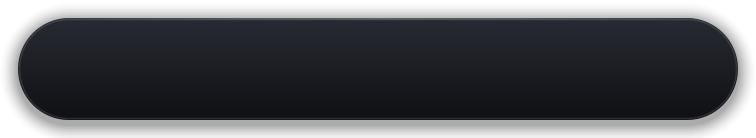
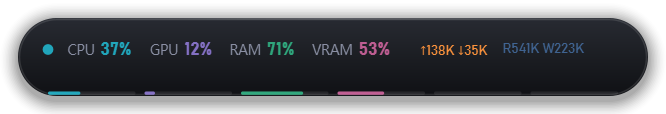
竖向胶囊磁盘行去掉竖条；横版网速与磁盘贴紧指标、胶囊收窄到 420；提交内存卡加分盘页面文件分布条

diff --git a/ui/island.py b/ui/island.py
@@ -113,7 +113,7 @@ RATE_FOCUS = {"net_up", "net_down", "disk_r", "disk_w"}
 class IslandWindow(QWidget):
     INSET = 12
     SNAP_DIST = 48          # 胶囊本体离屏幕任一边小于这个距离，松手就吸附上去
-    COLLAPSED_W = 480
+    COLLAPSED_W = 420        # 右端速率贴紧指标后按实测最宽内容定的宽，整体更紧凑
     COLLAPSED_H_IDLE = 52
     COLLAPSED_H_PLAY = 68
     SIDE_W = 62             # 贴左右两侧时的竖向胶囊（本体尺寸，不含 INSET）
@@ -1987,20 +1987,22 @@ class IslandWindow(QWidget):
                        f"↓{self._brief_rate(d.get('net_down', 0.0))}")
             disk_txt = (f"R{self._brief_rate(d.get('disk_r', 0.0))} "
                         f"W{self._brief_rate(d.get('disk_w', 0.0))}")
+            # 贴近前四项，不右对齐，省下中间那段空白
             gap_px = 10.0
+            avail = body.right() - margin - x - 8
             net_px = fm.horizontalAdvance(net_txt)
             disk_px = fm.horizontalAdvance(disk_txt)
-            if net_px + gap_px + disk_px <= right_w:
+            if net_px + gap_px + disk_px <= avail:
                 p.setPen(T.NET)
-                p.drawText(QRectF(x + 8, cy - 12, right_w - gap_px - disk_px, 24),
-                           Qt.AlignRight | Qt.AlignVCenter, net_txt)
+                p.drawText(QRectF(x + 8, cy - 12, net_px + 2, 24),
+                           Qt.AlignLeft | Qt.AlignVCenter, net_txt)
                 p.setPen(T.DISK)
-                p.drawText(QRectF(body.right() - margin - disk_px - 2, cy - 12,
-                                  disk_px + 2, 24),
-                           Qt.AlignRight | Qt.AlignVCenter, disk_txt)
+                p.drawText(QRectF(x + 8 + net_px + gap_px, cy - 12, disk_px + 2, 24),
+                           Qt.AlignLeft | Qt.AlignVCenter, disk_txt)
             else:
                 p.setPen(T.NET)
-                p.drawText(rect, Qt.AlignRight | Qt.AlignVCenter, net_txt)
+                p.drawText(QRectF(x + 8, cy - 12, avail, 24),
+                           Qt.AlignLeft | Qt.AlignVCenter, net_txt)
 
         # 底部：有声音就变成频谱律动，没声音回到占用条（CPU/GPU/RAM/VRAM/读/写 六段）
         bar_y = body.bottom() - 3
@@ -2079,16 +2081,18 @@ class IslandWindow(QWidget):
         tw = body.width() - 19.0
         for i, (label, value, pct, color) in enumerate(items):
             block_top = body.top() + pad_top + row_h * i + (row_h - block_h) / 2.0
-            p.setPen(Qt.NoPen)
-            p.setBrush(QColor(255, 255, 255, 34))
-            p.drawRoundedRect(QRectF(bar_x, block_top, bar_w, bar_h), 1.5, 1.5)
-            c = T.load_color(pct, color)
-            c.setAlpha(215)
-            p.setBrush(c)
-            fill = bar_h * max(0.0, min(float(pct), 100.0)) / 100.0
-            if fill > 1.0:
-                p.drawRoundedRect(QRectF(bar_x, block_top + bar_h - fill, bar_w, fill),
-                                  1.5, 1.5)
+            if label != "磁盘":
+                # 磁盘读写和网速一样只给文字，不画竖条
+                p.setPen(Qt.NoPen)
+                p.setBrush(QColor(255, 255, 255, 34))
+                p.drawRoundedRect(QRectF(bar_x, block_top, bar_w, bar_h), 1.5, 1.5)
+                c = T.load_color(pct, color)
+                c.setAlpha(215)
+                p.setBrush(c)
+                fill = bar_h * max(0.0, min(float(pct), 100.0)) / 100.0
+                if fill > 1.0:
+                    p.drawRoundedRect(QRectF(bar_x, block_top + bar_h - fill, bar_w, fill),
+                                      1.5, 1.5)
             p.setFont(lf)
             p.setPen(T.MUTED)
             p.drawText(QRectF(tx, block_top, tw, 12), Qt.AlignLeft | Qt.AlignVCenter, label)
@@ -2276,30 +2280,34 @@ class IslandWindow(QWidget):
         if d.get("vram_total"):
             vram_pct = d.get("vram_used", 0.0) / d["vram_total"] * 100.0
         commit_pct = d.get("commit_pct", 0.0) or 0.0
+        pf = d.get("pagefiles") or []
+        pf_sub3 = "   ".join(
+            f"{f['drive']} {f['total_gb']:.0f}G · {f['pct']:.0f}%" for f in pf
+        ) if pf else None
 
         cards = [
             ("CPU", cpu, f"{cpu:.0f}%",
              f"{d.get('cpu_ghz', 0.0):.1f} GHz · {d.get('cpu_cores', 0)} 核",
-             T.CPU, self._hist["cpu"], None, "cpu"),
+             T.CPU, self._hist["cpu"], None, "cpu", None, None),
             ("GPU", gpu or 0.0, "--" if gpu is None else f"{gpu:.0f}%", gpu_sub,
-             T.GPU, self._hist["gpu"], None, "gpu"),
+             T.GPU, self._hist["gpu"], None, "gpu", None, None),
             ("内存", d.get("ram", 0.0), f"{d.get('ram', 0.0):.0f}%",
              f"{d.get('ram_used', 0.0):.1f} / {d.get('ram_total', 0.0):.1f} GB",
-             T.RAM, self._hist["ram"], None, "mem"),
+             T.RAM, self._hist["ram"], None, "mem", None, None),
             ("显存", vram_pct, f"{vram_pct:.0f}%" if d.get("vram_total") else "--",
              f"{d.get('vram_used', 0.0):.1f} / {d.get('vram_total', 0.0):.1f} GB" if d.get("vram_total") else "不可用",
-             T.VRAM, self._hist["vram"], None, "vram"),
+             T.VRAM, self._hist["vram"], None, "vram", None, None),
             ("提交内存", commit_pct, f"{commit_pct:.0f}%" if d.get("commit_limit") else "--",
              f"{d.get('commit_used', 0.0):.1f} / {d.get('commit_limit', 0.0):.1f} GB",
              T.COMMIT, self._hist["commit"],
              f"页文件 {d.get('pagefile_used', 0.0):.2f} / {d.get('pagefile_total', 0.0):.0f} GB"
              if d.get("pagefile_total") else None,
-             "mem"),
+             "mem", pf_sub3, pf or None),
         ]
 
         self._card_hits.clear()
         for i, card in enumerate(cards):
-            title, pct, value, sub, color, hist, sub2, sort_key = card
+            title, pct, value, sub, color, hist, sub2, sort_key, sub3, pfiles = card
             if i < 2:
                 r = QRectF(inner.left() + i * (top_w + gap), inner.top(), top_w, top_h)
             else:
@@ -2311,7 +2319,8 @@ class IslandWindow(QWidget):
             p.save()
             p.setOpacity(p.opacity() * op)
             p.translate(0, (1.0 - op) * 5.0)
-            self._paint_card(p, r, title, pct, value, sub, color, hist, sub2)
+            self._paint_card(p, r, title, pct, value, sub, color, hist, sub2,
+                             sub3, pfiles)
             p.restore()
             self._card_hits[sort_key] = r
 
@@ -2331,7 +2340,7 @@ class IslandWindow(QWidget):
             p.restore()
 
     def _paint_card(self, p, rect, title, pct, value_text, sub_text, color, hist,
-                    sub_text2=None) -> None:
+                    sub_text2=None, sub_text3=None, pagefiles=None) -> None:
         p.setPen(Qt.NoPen)
         p.setBrush(T.CARD_BG)
         path = QPainterPath()
@@ -2373,9 +2382,25 @@ class IslandWindow(QWidget):
                        Qt.AlignLeft | Qt.AlignVCenter, sub2)
             spark_top = 62
 
-        spark = QRectF(rect.left() + x_inset, rect.top() + spark_top,
-                       rect.width() - x_inset * 2, rect.height() - spark_top - 14)
-        self._paint_spark(p, spark, hist, color)
+        if sub_text3:
+            p.setFont(T.font(8, spacing=0.1))
+            fm3 = QFontMetrics(p.font())
+            sub3 = fm3.elidedText(sub_text3, Qt.ElideRight, int(rect.width() - x_inset * 2))
+            p.setPen(T.DIM)
+            p.drawText(QRectF(rect.left() + x_inset, rect.top() + 62,
+                              rect.width() - x_inset * 2, 11),
+                       Qt.AlignLeft | Qt.AlignVCenter, sub3)
+            spark_top = 74
+
+        if pagefiles:
+            # 页面文件的盘符分布：每段宽度按各盘容量占比，段内填充按该盘使用率
+            pf_bar = QRectF(rect.left() + x_inset, rect.top() + 78,
+                            rect.width() - x_inset * 2, 5.0)
+            self._paint_pf_bar(p, pf_bar, pagefiles)
+        else:
+            spark = QRectF(rect.left() + x_inset, rect.top() + spark_top,
+                           rect.width() - x_inset * 2, rect.height() - spark_top - 14)
+            self._paint_spark(p, spark, hist, color)
 
         # 卡底一条 2px 分类色细条，比胶囊底边四段条更克制
         strip = QRectF(rect.left() + x_inset, rect.bottom() - 7.5,
@@ -2385,6 +2410,26 @@ class IslandWindow(QWidget):
         p.setPen(Qt.NoPen)
         p.setBrush(c)
         p.drawRoundedRect(strip, 1.0, 1.0)
+
+    def _paint_pf_bar(self, p, rect: QRectF, files: list) -> None:
+        """页面文件各盘分布条：段宽按容量占比，段内填充按该盘使用率。"""
+        total = sum(float(f.get("total_gb") or 0.0) for f in files) or 1.0
+        n = len(files)
+        gap = 4.0
+        avail = max(1.0, rect.width() - gap * (n - 1))
+        x = rect.left()
+        p.setPen(Qt.NoPen)
+        for f in files:
+            seg_w = avail * float(f.get("total_gb") or 0.0) / total
+            p.setBrush(QColor(255, 255, 255, 20))
+            p.drawRoundedRect(QRectF(x, rect.top(), seg_w, rect.height()), 2.0, 2.0)
+            c = QColor(T.COMMIT)
+            c.setAlpha(205)
+            p.setBrush(c)
+            fill = seg_w * max(0.0, min(float(f.get("pct") or 0.0), 100.0)) / 100.0
+            if fill > 1.0:
+                p.drawRoundedRect(QRectF(x, rect.top(), fill, rect.height()), 2.0, 2.0)
+            x += seg_w + gap
 
     def _paint_spark(self, p, rect, hist, color) -> None:
         # 底线交给卡片底部那条分类色，这里只留一条 75% 参考线

diff --git a/README.md b/README.md
@@ -15,7 +15,8 @@
 ## 它能做什么
 
 ### 1. 系统监控
-- CPU / GPU / 内存 / 显存四张卡片，实时的百分比、曲线、温度（NVIDIA 显卡走 NVML）
+- 上二下三共五张卡片：上面 CPU / GPU，下面内存 / 显存 / 提交内存，实时的百分比、曲线、温度（NVIDIA 显卡走 NVML）
+- **提交内存**按「已提交 + 页面文件」口径读：卡片上给提交上限、页文件总用量，还有一条按盘划分的分布条（各盘容量占比做段宽、段内填充是该盘使用率），方便判断页面文件该往哪块盘挪
 - 底栏是上传 / 下载 / 读盘 / 写盘四个速率
 - **点任意一张卡片或底栏指标，就钻进这个指标的进程列表**：按该项排序、带条状图、可以直接结束进程
 
@@ -47,7 +48,8 @@
 
 ### 5. 桌面行为
 - **吸附屏幕四边**：启动贴在顶部正中间；拖动胶囊靠近任一边（48px 内）松手就吸附过去，四角按最近的边算
-  - 吸到**左/右**边自动翻成竖向胶囊（62×232），四项指标一行一根竖条、条与文字块上下对齐，网速单独压在最底部
+  - 吸到**左/右**边自动翻成竖向胶囊（62×300）：CPU / GPU / 内存 / 显存 / 提交内存各占一行、一行一根竖条且与文字块上下对齐；磁盘读写和网速一样不画条，只给文字，网速单独压在最底部
+  - 收起态的横版胶囊里，网速和磁盘读写紧跟在四项指标后面（不甩到最右边），右端更紧凑
   - 吸到**底边**贴在任务栏上方，展开面板向上生长
 - **托盘/右键菜单「停靠位置」**：顶部居中 / 左侧竖排 / 右侧竖排 / 任务栏上方，点一下直接挪过去
 - 拖到屏幕中间松手就是自由摆放，位置和停靠边都会记住（配置 `dock` + `pos`）
